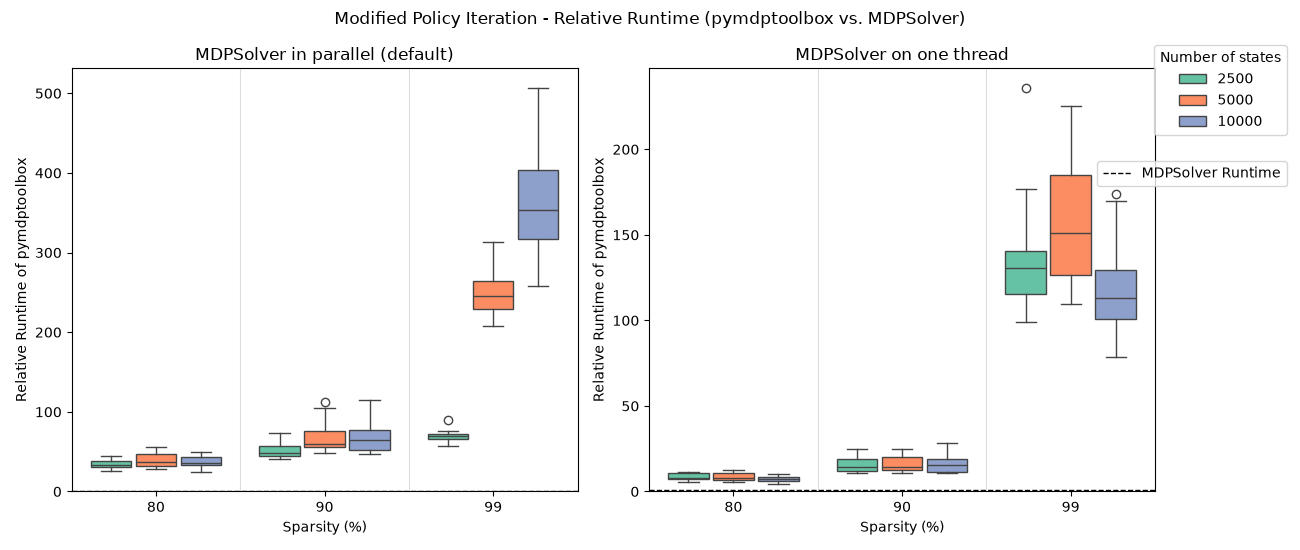
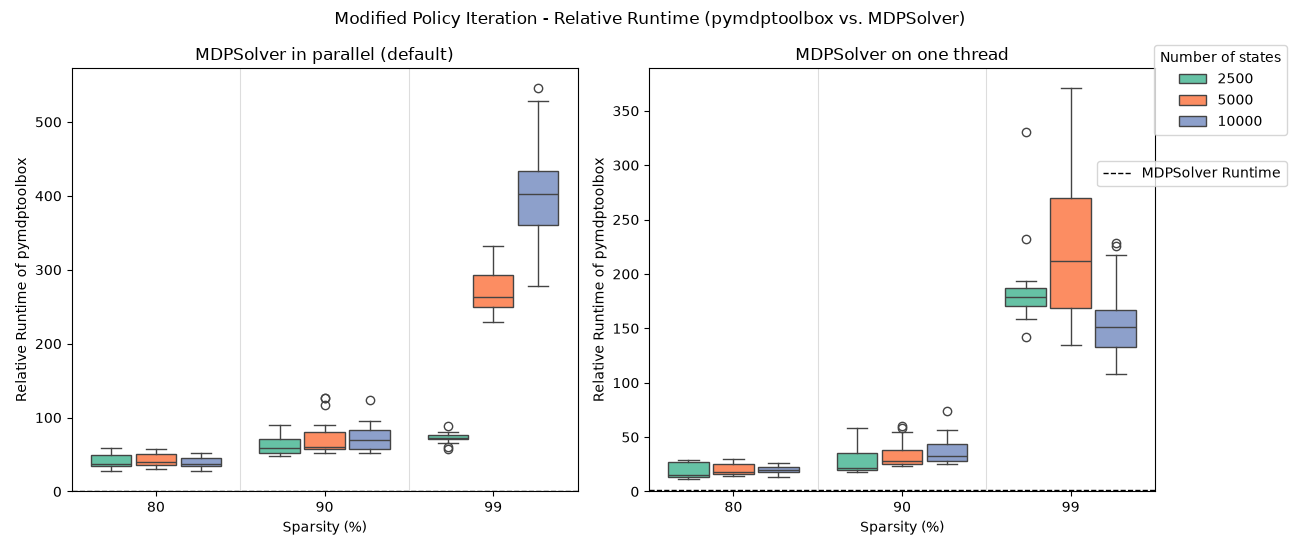
Updated benchmarks and improved algorithm speed

diff --git a/CPP_Source_Code/ModifiedPolicyIteration.cpp b/CPP_Source_Code/ModifiedPolicyIteration.cpp
@@ -590,21 +590,43 @@ void ModifiedPolicyIteration::modifiedPolicyIterationSOR(){
 //  LOOPS FOR MODELS WITH CSR TABLES
 //---------------------------------------
 //These loops read the model's CSR tables (ModelType.h) directly, rather than calling the
-//model's methods for every transition probability. They do the same arithmetic in the same
-//order as the loops through the methods did, so that the values, policies and iteration
-//counts come out the same. The parallel ones compute the norm in the same sweep, with
-//OpenMP reductions, rather than in a second parallel region.
+//model's methods for every transition probability. The parallel ones compute the norm in the
+//same sweep, with OpenMP reductions, rather than in a second parallel region. The sums of the
+//standard updates are split over four partial sums (pairValue()), so their values can differ
+//from those of the loops through the methods in the last digits; the SOR sums keep the order
+//of those loops.
 
 namespace {
 
-//the value of state-action pair i under the values v: r(i) + discount * sum_k p(k) v(j(k))
+//the value of state-action pair i under the values v: r(i) + discount * sum_k p(k) v(j(k)).
+//The sum is split over four partial sums, entry k of the pair going to the partial sum of
+//its position modulo 4, and added up as (s0 + s1) + (s2 + s3). A single sum is a chain of
+//additions that each wait for the one before, which limits a long sum to one addition per
+//few clock cycles; four chains run side by side. On models with long sums (hundreds of
+//entries per pair) a sweep on one thread takes a third of the time. Since every entry has
+//its fixed partial sum, entries of probability 0 after the others (e.g. the padding of
+//arrays) add only zeros, and leave the value exactly as without them.
 template <typename Prob>
 inline double pairValue(const CSRTables& t, const Prob* prob, int64_t i, const double* v, double discount){
-	double valSum = 0;
-	for (int64_t k = t.pairStart[i]; k < t.pairStart[i+1]; k++){
-		valSum += prob[k] * v[t.column[k]];
+	int64_t k = t.pairStart[i];
+	const int64_t end = t.pairStart[i+1];
+	double s0 = 0, s1 = 0, s2 = 0, s3 = 0;
+	for (; k + 4 <= end; k += 4){
+		s0 += prob[k] * v[t.column[k]];
+		s1 += prob[k+1] * v[t.column[k+1]];
+		s2 += prob[k+2] * v[t.column[k+2]];
+		s3 += prob[k+3] * v[t.column[k+3]];
 	}
-	return t.reward[i] + discount * valSum;
+	if (k < end){ //the last one to three entries
+		s0 += prob[k] * v[t.column[k]];
+		if (k + 1 < end){
+			s1 += prob[k+1] * v[t.column[k+1]];
+			if (k + 2 < end){
+				s2 += prob[k+2] * v[t.column[k+2]];
+			}
+		}
+	}
+	return t.reward[i] + discount * ((s0 + s1) + (s2 + s3));
 }
 
 //the value of action a in state s; an action the state does not have (possible only in a
